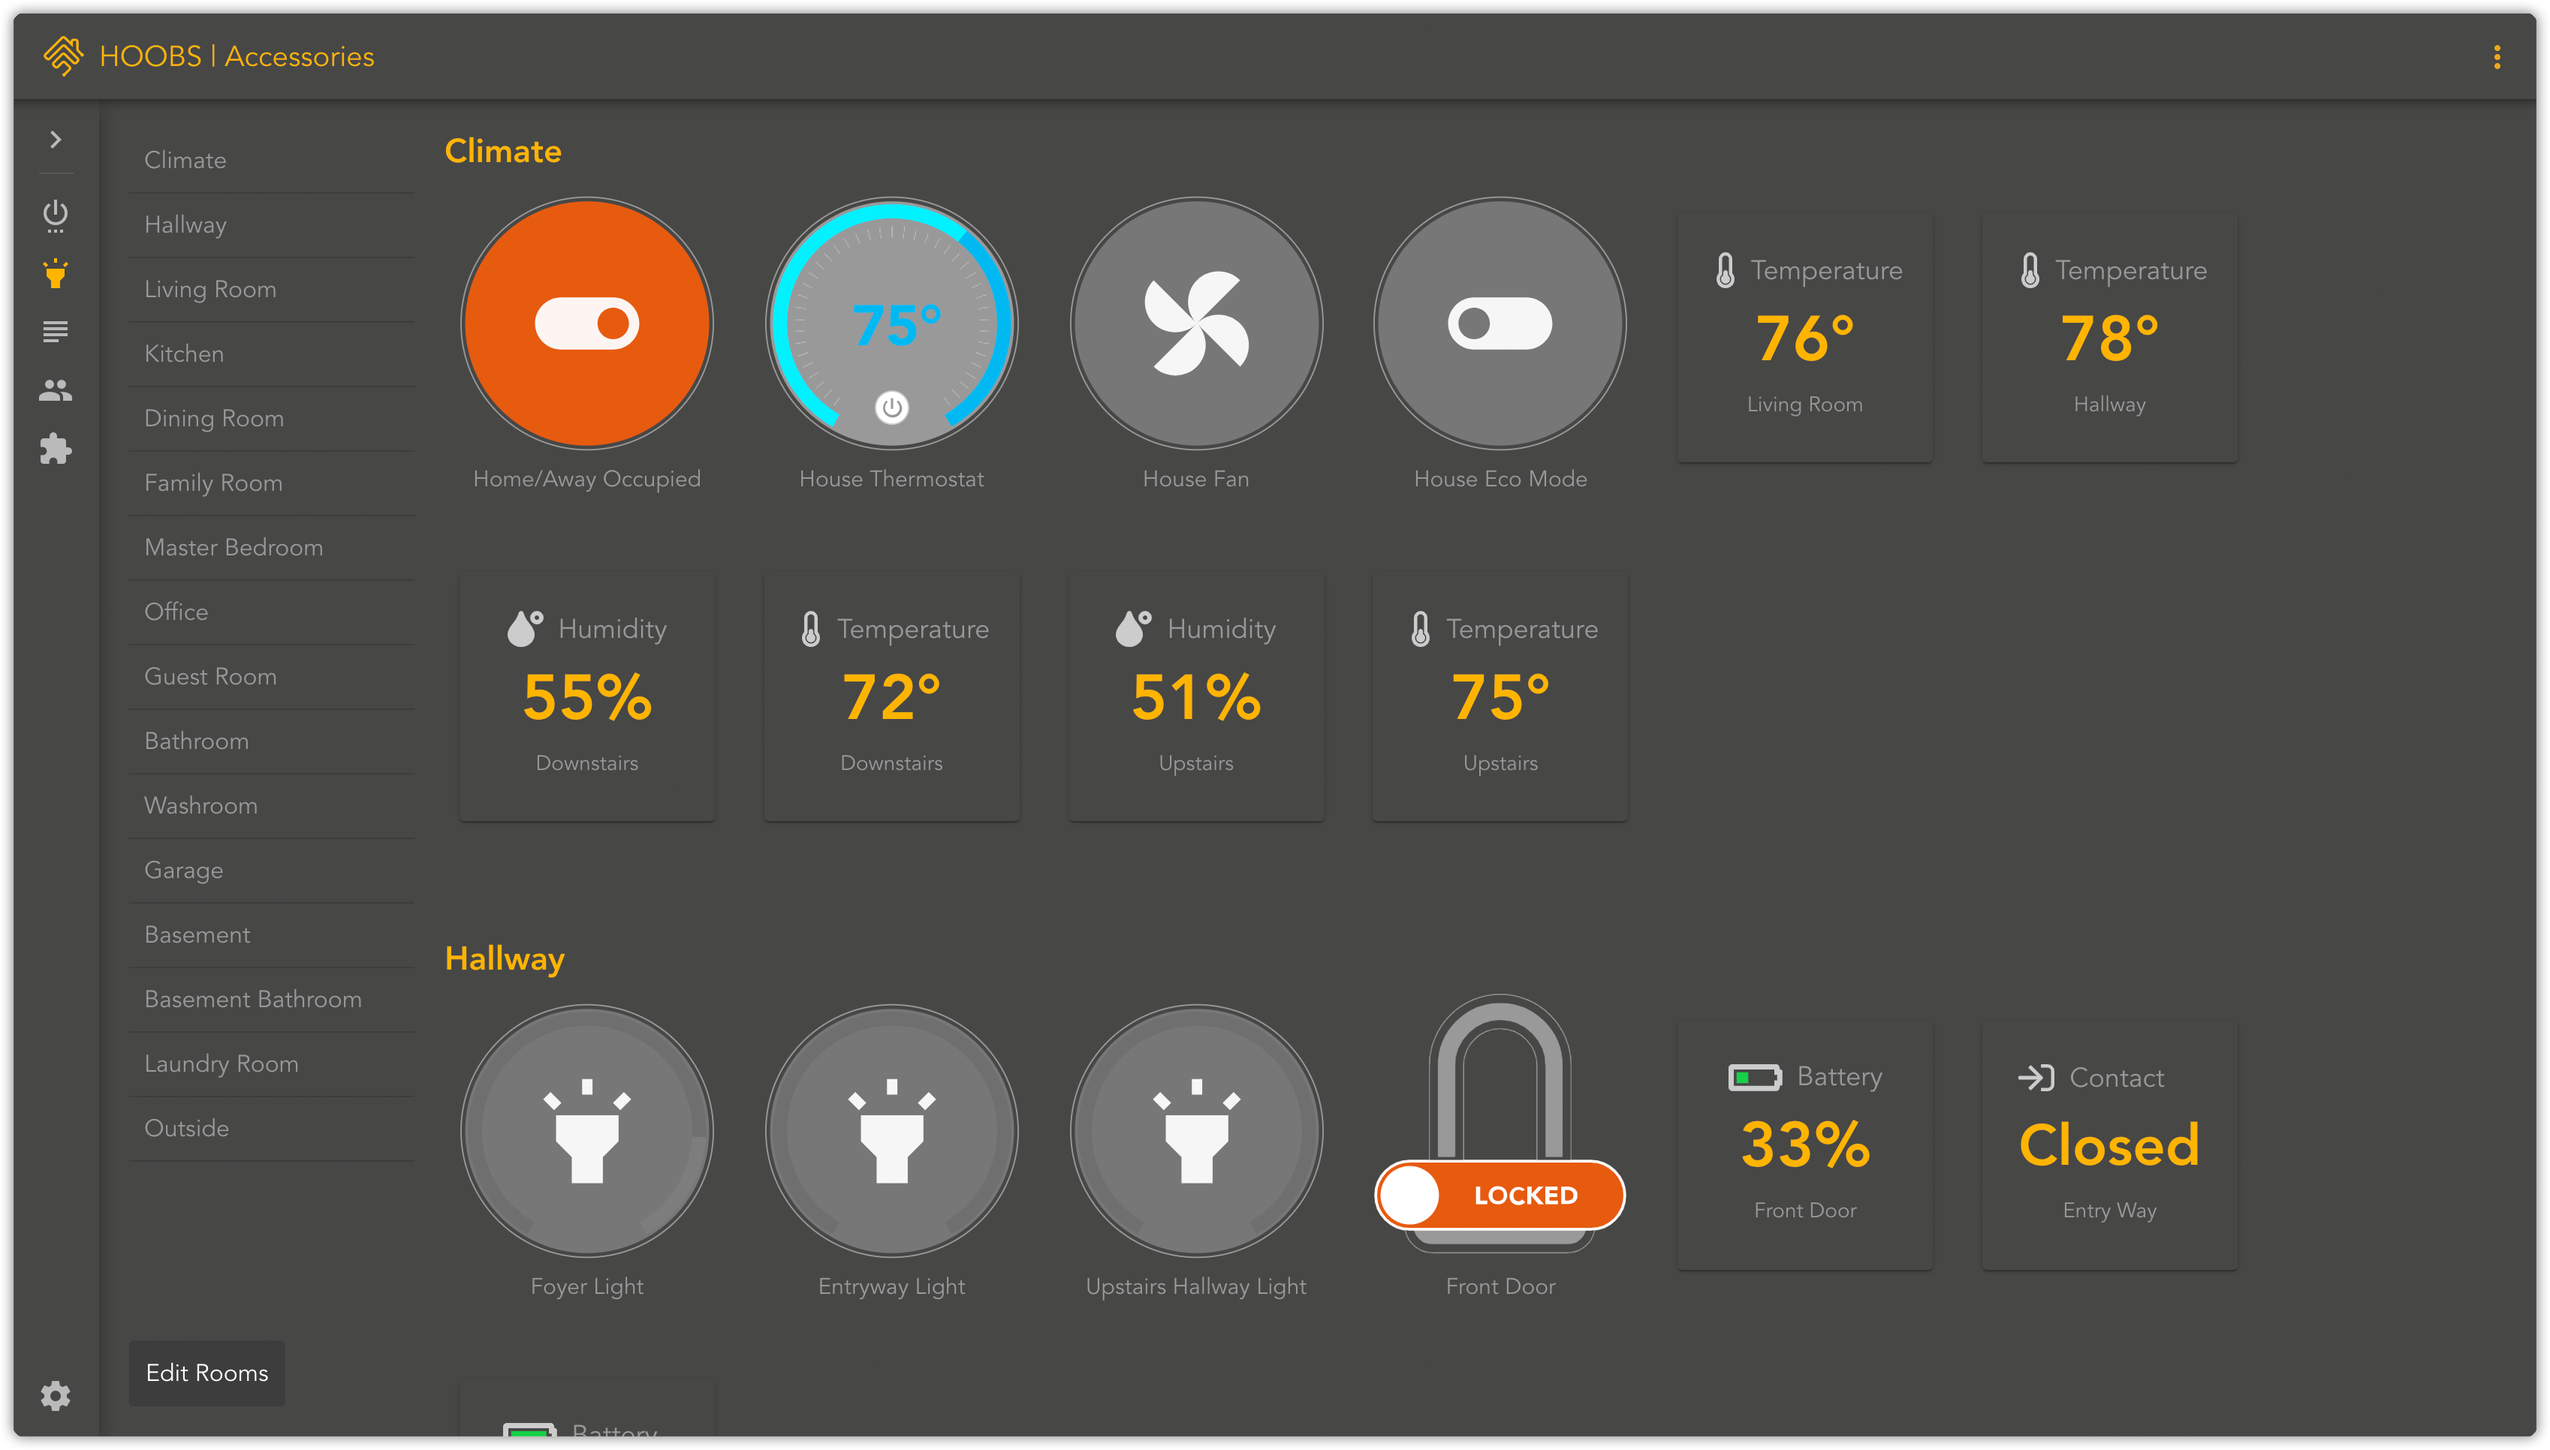
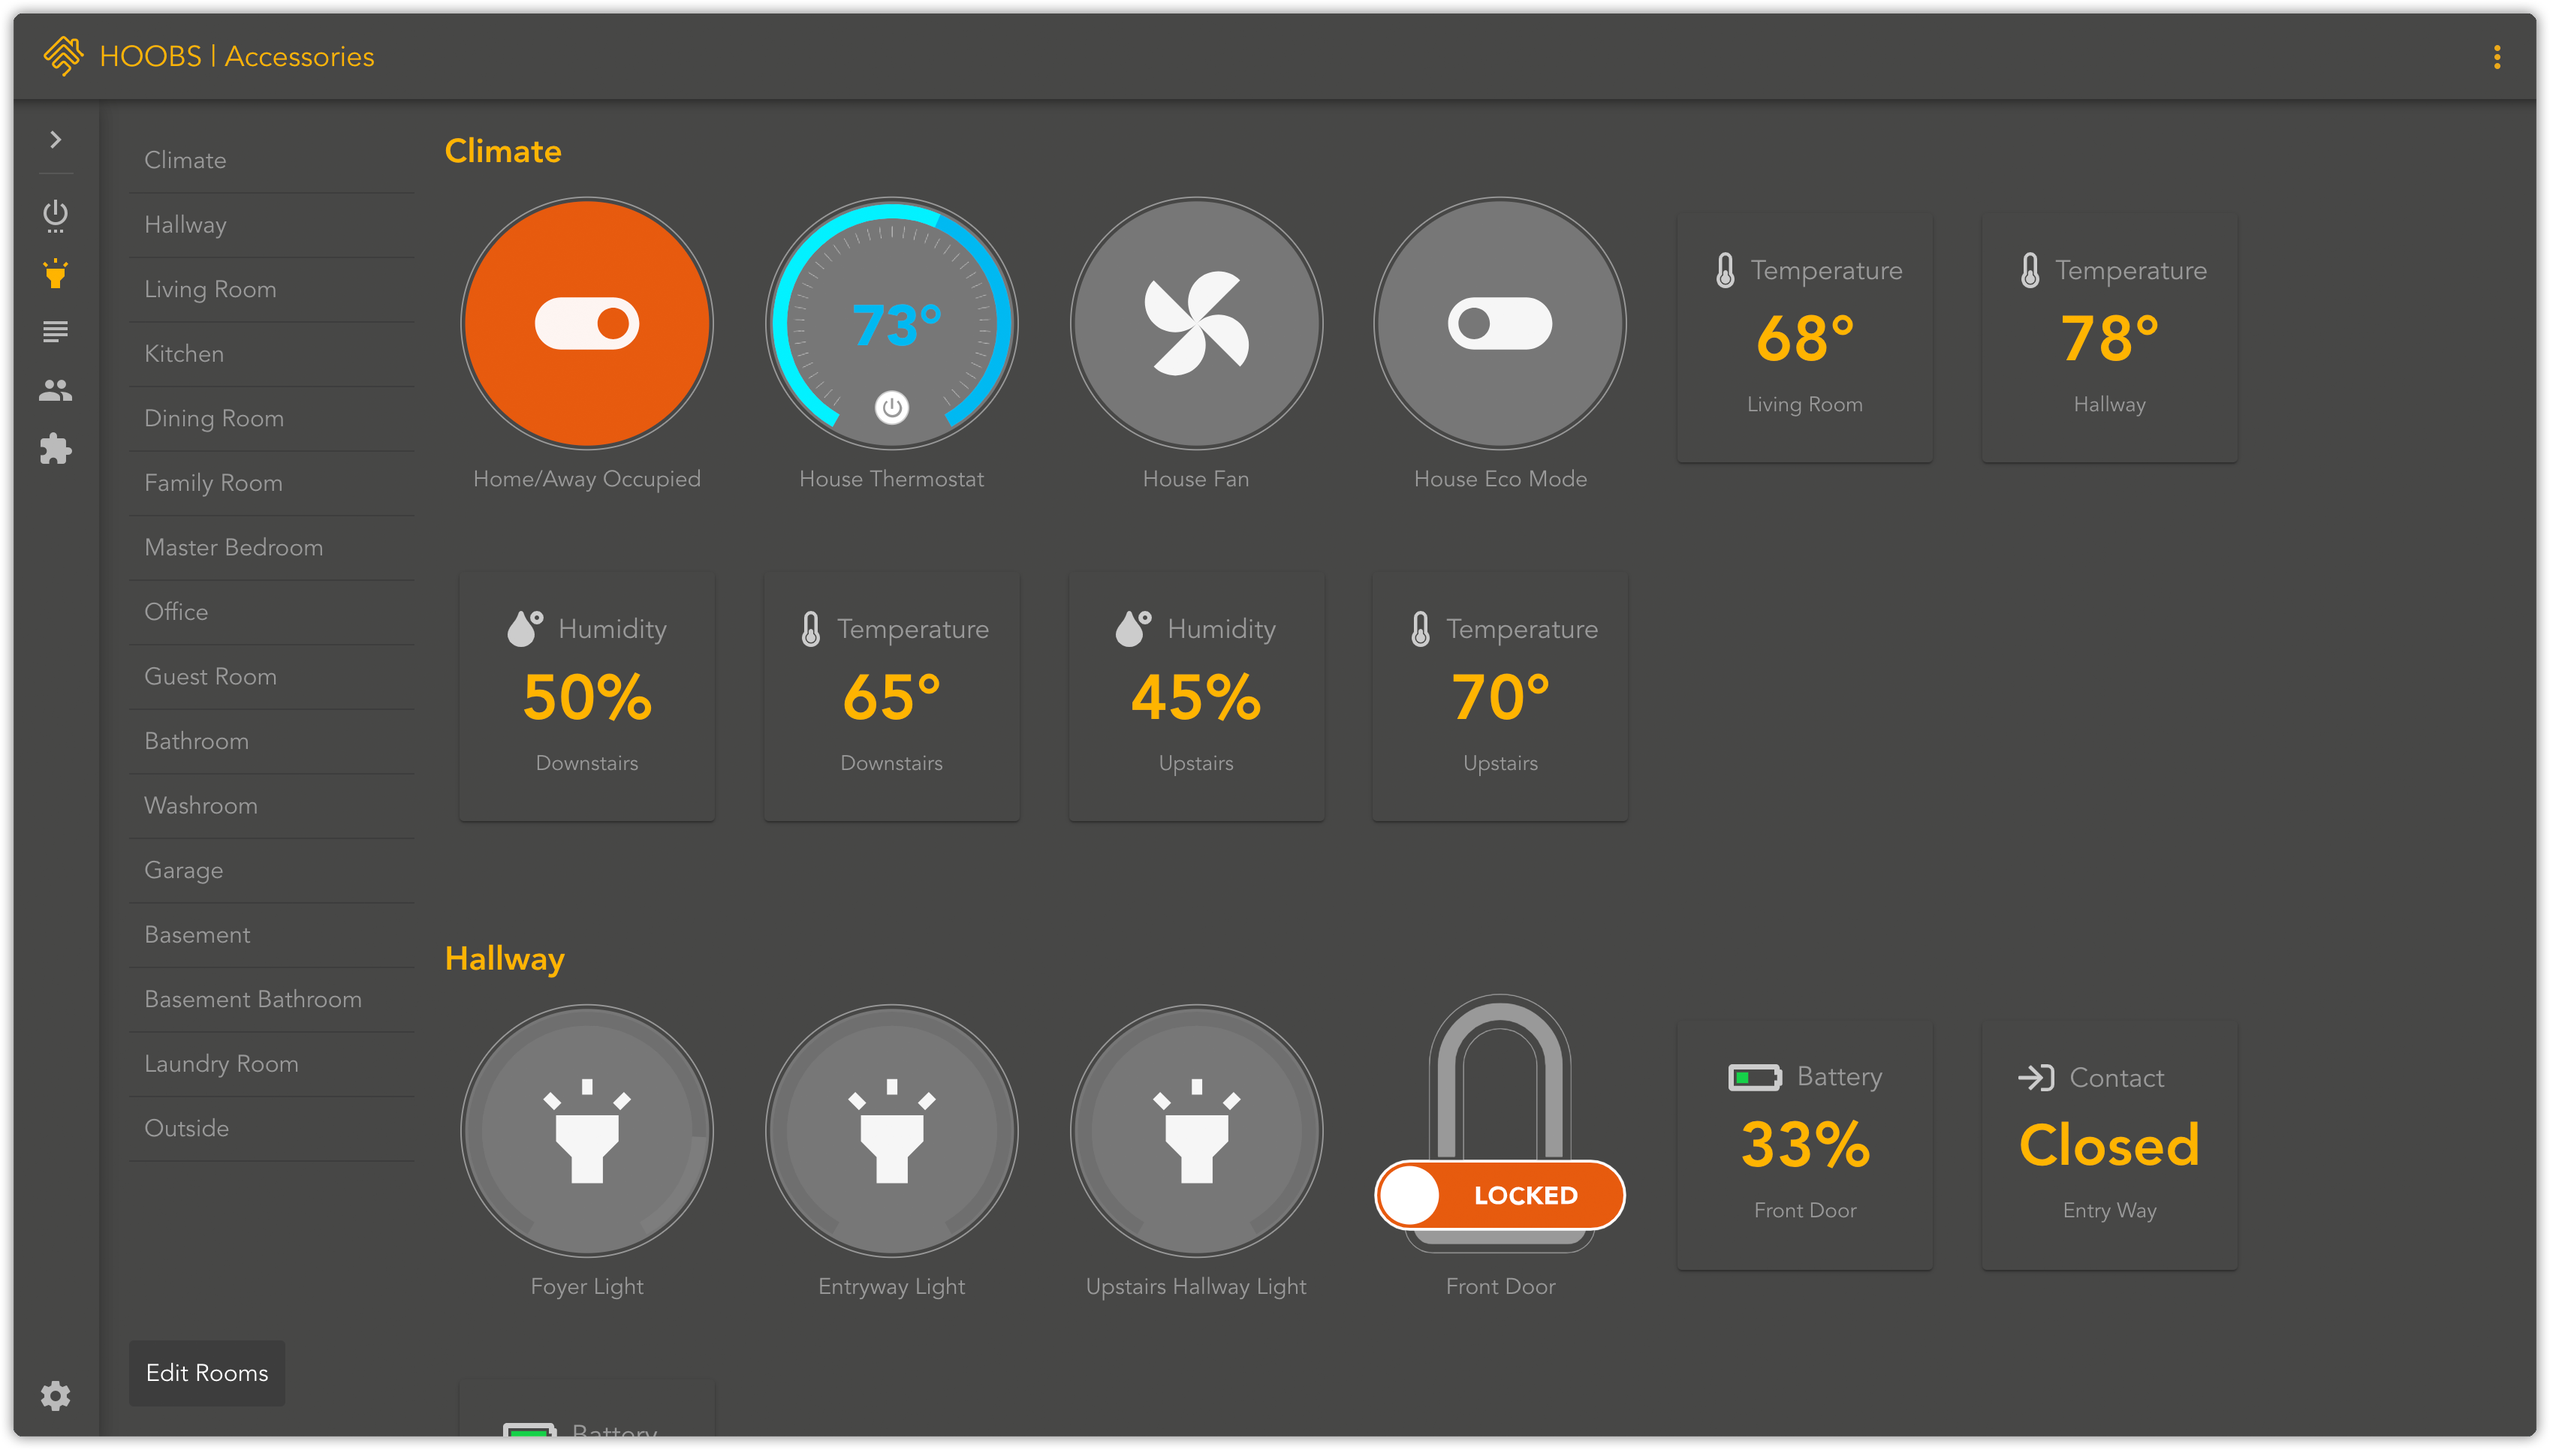
fixed a bug in the thermostat control

diff --git a/src/accessories/thermostat-control.vue b/src/accessories/thermostat-control.vue
@@ -2,7 +2,7 @@
     <div id="control">
         <svg width="190" height="190" viewBox="0 0 100 100" @click="setTarget" @mousedown="captureMouse" @mouseup="releaseMouse" @touchstart="beginTouch" @touchend="endTouch">
             <circle style="fill: var(--background); stroke: var(--text-light);" stroke-width="0.5" cx="50" cy="50" r="45" />
-	        <circle :fill="(client.theme || 'hoobs-light').endsWith('dark') ? '#999999' : '#fafafa'" cx="50" cy="50" r="43.5" />
+	        <circle :fill="(client.theme || 'hoobs-light').endsWith('dark') ? '#777777' : '#fafafa'" cx="50" cy="50" r="43.5" />
             <path :d="`M ${this.min.x} ${this.min.y} A 40 40 0 1 1 ${this.max.x} ${this.max.y}`" stroke-width="5" :stroke="right" fill="none" style="transition: stroke 0.1s ease-in; cursor: pointer;" />
             <path v-if="visible" :d="`M ${this.zero.x} ${this.zero.y} A 40 40 0 ${this.arc} ${this.sweep} ${this.position.x} ${this.position.y}`" stroke-width="5" :stroke="left" fill="none" ref="path-value" :style="style" />
             <path fill="none" stroke="#cccccc" stroke-width="0.3" stroke-miterlimit="10" d="M53.9,19.8l0.6-4.4 M57.7,20.5l1.1-4.2 M61.5,21.7l1.6-4 M65,23.4l2.1-3.8 M68.3,25.5l2.6-3.6 M71.3,28l3-3.2 M74,30.8l3.4-2.8 M76.3,34l3.7-2.3 M78.2,37.4l3.9-1.8 M79.6,41.1l4.2-1.4 M80.6,44.8l4.3-0.8 M81.1,48.7l4.3-0.2 M81.1,52.6 l4.3,0.3 M80.6,56.5l4.3,0.8 M79.6,60.3l4.2,1.4 M78.2,63.9l3.9,1.9 M76.3,67.4l3.7,2.3 M74,70.5l3.4,2.8 M71.3,73.4l3,3.2 M68.3,75.9l2.6,3.5 M31.7,75.9l-2.6,3.5 M28.7,73.4l-3,3.2 M26,70.5l-3.4,2.8 M23.7,67.4L20,69.7 M21.8,63.9l-3.9,1.9 M20.4,60.3 l-4.2,1.4 M19.4,56.5l-4.3,0.8 M18.9,52.6l-4.3,0.3 M18.9,48.7l-4.3-0.2 M19.4,44.8L15.1,44 M20.4,41.1l-4.2-1.4 M21.8,37.4 l-3.9-1.8 M23.7,34L20,31.7 M26,30.8L22.6,28 M28.7,28l-3-3.2 M31.7,25.5l-2.6-3.6 M35,23.4l-2.1-3.8 M38.5,21.7l-1.6-4 M42.3,20.5 l-1.1-4.2 M46.1,19.8l-0.6-4.4 M50,19.5v-4.3" />
@@ -276,7 +276,7 @@
             },
 
             async control(type, value) {
-                await this.api.put(`${this.client.api}/accessory/${this.accessory.aid}/${this.accessory.characteristics.filter(c => c.type === type)[0].iid}`, {
+                await this.api.put(`/accessory/${this.accessory.aid}/${this.accessory.characteristics.filter(c => c.type === type)[0].iid}`, {
                     value
                 });
             }

diff --git a/src/accessories/switch-control.vue b/src/accessories/switch-control.vue
@@ -2,7 +2,7 @@
     <div id="control">
         <svg width="190" height="190" viewBox="0 0 100 100">
             <circle style="fill: var(--background); stroke: var(--text-light);" stroke-width="0.5" cx="50" cy="50" r="45" />
-            <circle :fill="accessory.values.on ? color : ((client.theme.endsWith('dark') || 'hoobs-light') ? '#777777' : '#cccccc')" cx="50" cy="50" r="43.5" />
+            <circle :fill="accessory.values.on ? color : ((client.theme || 'hoobs-light').endsWith('dark') ? '#777777' : '#cccccc')" cx="50" cy="50" r="43.5" />
             <path fill="#ffffffef" :d="icon" />
             <circle fill="#ffffff00" stroke="none" cx="50" cy="50" r="45" @click="toggle" style="cursor: pointer;" />
         </svg>
